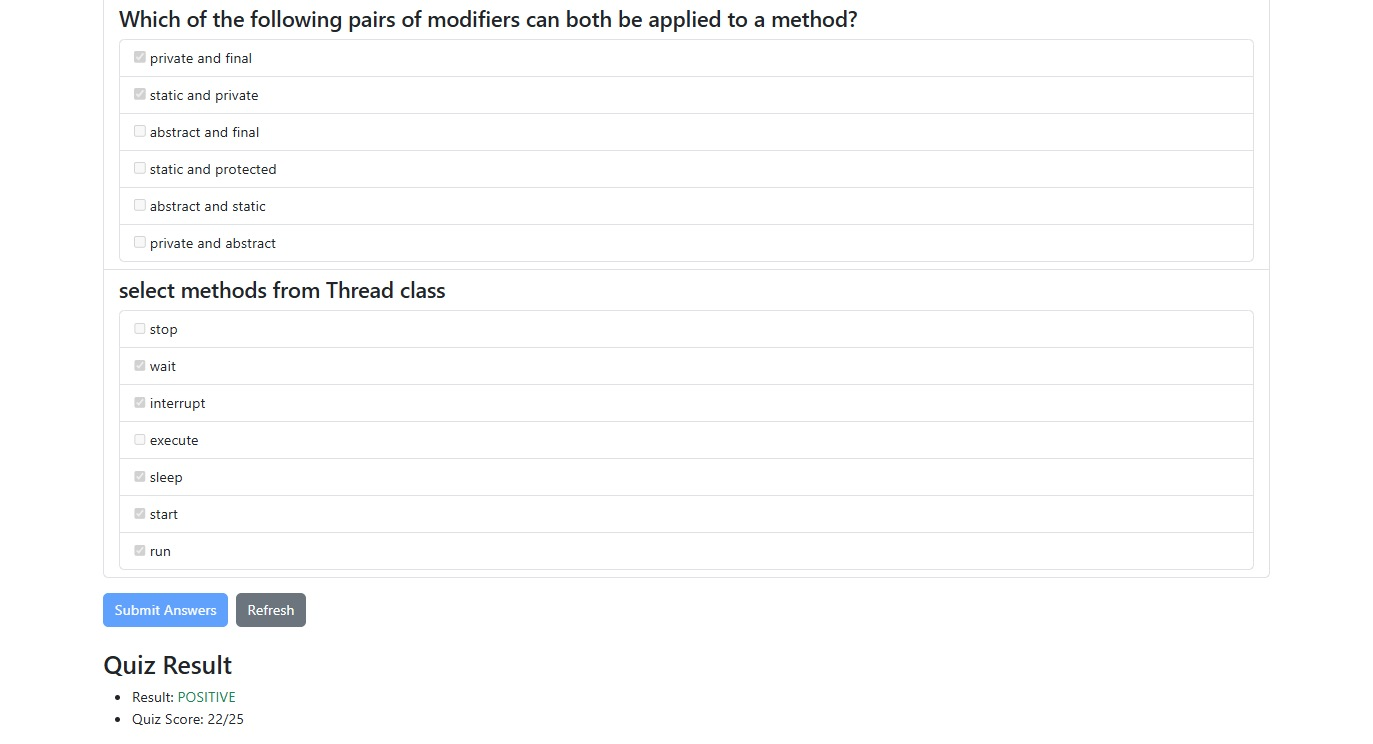
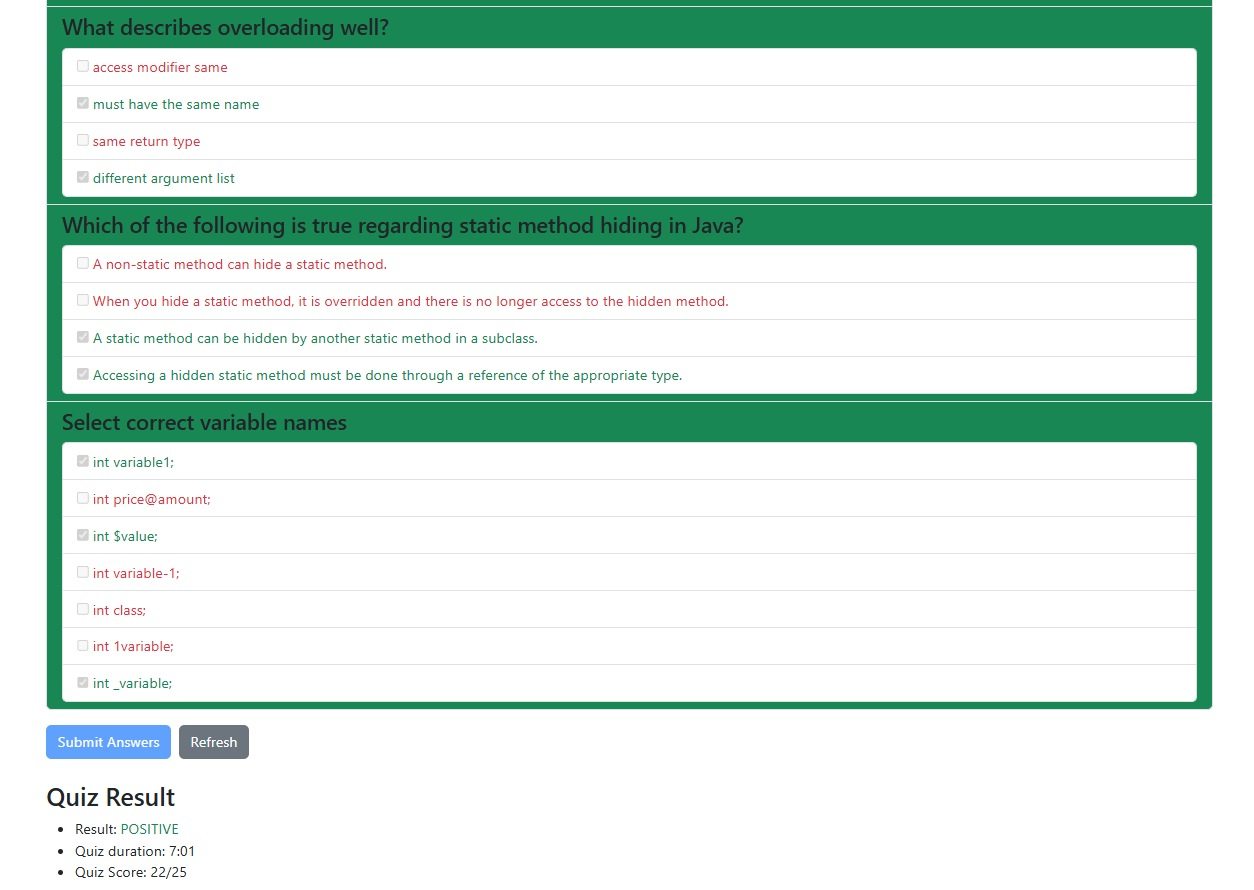
quiz_master info updated, updated links

Changed region(s): [[0.0311, 0.0, 0.9952, 0.9892]]

diff --git a/index_en.md b/index_en.md
@@ -71,32 +71,33 @@ Technological characteristics:
 ```
 Application that allows learning and testing by completing 'quizzes',
  e.g. related to learning Java programming or any other topic.
-Currently, sample quizzes related to learning Java are available, 
-the results are not recorded and there is no possibility or need to log in to the service.
+Currently, there are sample quizzes available related to learning Java, 
+there is no possibility or need to log in to the service. Only the time of completing the test is recorded.
 
 #### Operation
 
-The application displays a list of available quizzes, clicking on the selected one starts the quiz 
+The application displays a list of available quizzes, clicking on the selected one starts the quiz
 (loads questions with answers). After selecting the answer, 
-the quiz should be sent to the 'backend' to receive information about the result 
-(currently without details about which specific answers were incorrect).
+the quiz should be sent to the 'backend' to receive information about the result.
+The result includes a rating (positive/negative), the number of correct answers and the duration time
+(counted from 'clicking' on the selected quiz in the 'backend' based on the generated 'session id').
+
+Along with the result, correct answers are also returned, thanks to which the 'frontend' implemented 
+a change in the color scheme, after the test is completed, of correct/incorrect answers in the form 
+(as well as entire questions depending on the answer rating).
 
 #### Technologies
 
 * The 'backend' part of the application was written in **Java** using the **Spring** framework;
-
 * The 'frontend' was created using the **Angular** framework (also using Bootstrap in view);
-
 * It uses the **MongoDB** non-relational database and the **Liquibase** tool for migration;
-
 * When writing tests, apart form Java and JUnit, the **Groovy** language and the **Spock** and **RestAssured** libraries were used;
 
 ![QuizMasterAppImage](quiz_master_01.jpg)
 
 #### Application Features
 
-* The concept of conducting various types of tests/quizzes using the 'backend' and database allows for:
-
+* The concept of conducting various types of tests/quizzes using the 'backend' and database allows&nbsp;for:
 	* ensuring high quality results, because the data sent with questions to the 'frontend' does not contain results
 	 and the possibilities of manipulating the test execution time are limited because the time is counted in the 'backend';
 	* adding quizzes and expanding them;
@@ -115,7 +116,7 @@ the quiz should be sent to the 'backend' to receive information about the result
 
 #### Links
 
-* [Working application](http://185.238.72.254:4200)
+* [Working application](https://quizmaster.romananton.online)
 * [Project code](https://github.com/TomaszGerstel/QuizMaster.git)
 
 ## J-Countant
@@ -258,7 +259,7 @@ the tool allows you to determine the profit, the tax base and the amount of taxe
 
 #### Links
 
-* [The copy of the application on the server](http://py-countant.com/)
+* [App on server](https://pycountant.romananton.online)
 * [Project code](https://github.com/TomaszGerstel/pycountant-simple.git)
 
 * * *
@@ -287,7 +288,7 @@ My final project in Java Application Development. The app is a food/activity dia
 
 #### Links
 
-* [Working MyBalance App](http://185.238.72.254/mybalance/).
+* [Working MyBalance App](http://185.238.72.254/mybalance/)
 
 * * *
 

diff --git a/index.md b/index.md
@@ -67,11 +67,13 @@ Charakterystyka technologiczna:
 	> Groovy, Spock, JUnit
 ```
 Aplikacja dająca możliwość nauki i sprawdzenia się poprzez przerabianie 'quizów' np. związanych z nauką programowania w Javie albo w dowolnym innym temacie.
-Obecnie są dostępne przykładowe quizy związane z nauką Javy, wyniki nie są rejestrowane i nie ma możliwości ani potrzeby logowania się do serwisu. 
+Obecnie są dostępne przykładowe quizy związane z nauką Javy, nie ma możliwości ani potrzeby logowania się do serwisu. Rejestrowany jest jedynie czas wykonania testu. 
 
 #### Działanie
 
-W aplikacji jest wyświetlana lista dostępnych quizów, klikniecie na wybrany rozpoczyna quiz (ładuje pytania z odpowiedziami). Po wyborze odpowiedzi quiz należy przesłać do 'backendu', aby otrzymać informacje o wyniku (obecnie bez szczegółów na temat, które konkretnie odpowiedzi były niepoprawne).
+W aplikacji jest wyświetlana lista dostępnych quizów, klikniecie na wybrany rozpoczyna quiz (ładuje pytania z odpowiedziami). Po wyborze odpowiedzi quiz należy przesłać do 'backendu', aby otrzymać informacje o wyniku. Na wynik zawiera się ocena (pozytywna/negatywna), liczba prawidłowych odpowiedzi i czas odpowiedzi (liczony od 'kliknięcia' na wybrany quiz w 'backendzie' na podstawie wygenerowanego 'session id').
+
+Wraz z wynikiem zwracane są także poprawne odpowiedzi, dzięki czemu na 'frontendzie' zaimplementowano zmianę kolorystyki, po zakonczonym teście, poprawnych/nieprawidłowych odpowiedzi w formularzu (a także całych pytań w zależności od oceny odpowiedzi).
 
 #### Technologie
 
@@ -102,7 +104,7 @@ W aplikacji jest wyświetlana lista dostępnych quizów, klikniecie na wybrany r
 
 #### Linki
 
-* [Działająca aplikacja](http://185.238.72.254:4200)
+* [Działająca aplikacja](https://quizmaster.romananton.online)
 * [Kod projektu](https://github.com/TomaszGerstel/QuizMaster.git)
 
 * * *
@@ -247,7 +249,7 @@ narzędzie pozwala ustalić uzyskiwane dochody, podstawę opodatkowania oraz wys
 
 #### Linki
 
-* [Kopia aplikacji na serwerze](http://py-countant.com/)
+* [Aplikacja na serwerze](https://pycountant.romananton.online)
 * [Kod projektu](https://github.com/TomaszGerstel/pycountant-simple.git)
 
 * * *
@@ -276,7 +278,7 @@ Mój projekt zaliczeniowy z kierunku Programowanie Aplikacji Java. Aplikacja jes
 
 #### Linki
 
-* [Działająca Aplikacja MyBalance](http://185.238.72.254/mybalance/).
+* [Działająca Aplikacja MyBalance](http://185.238.72.254/mybalance/)
 
 * * *
 
